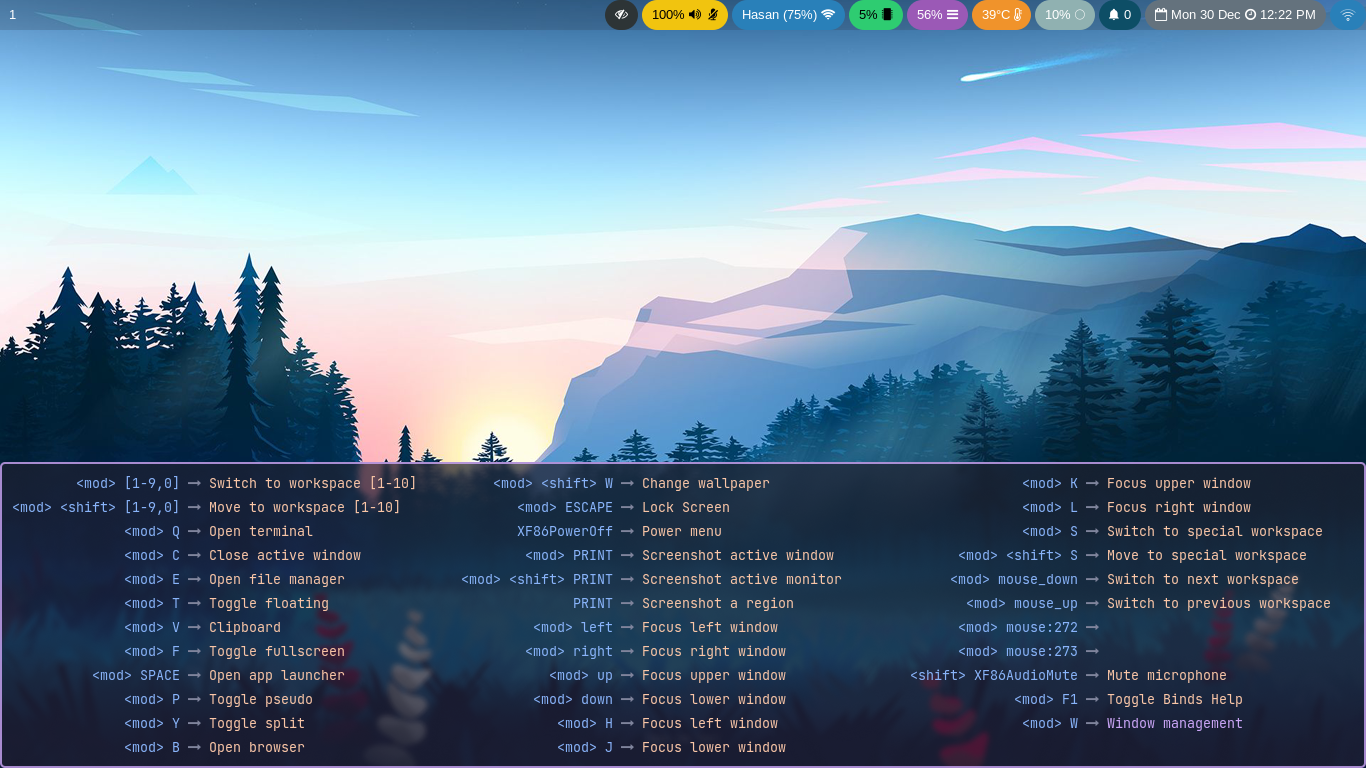
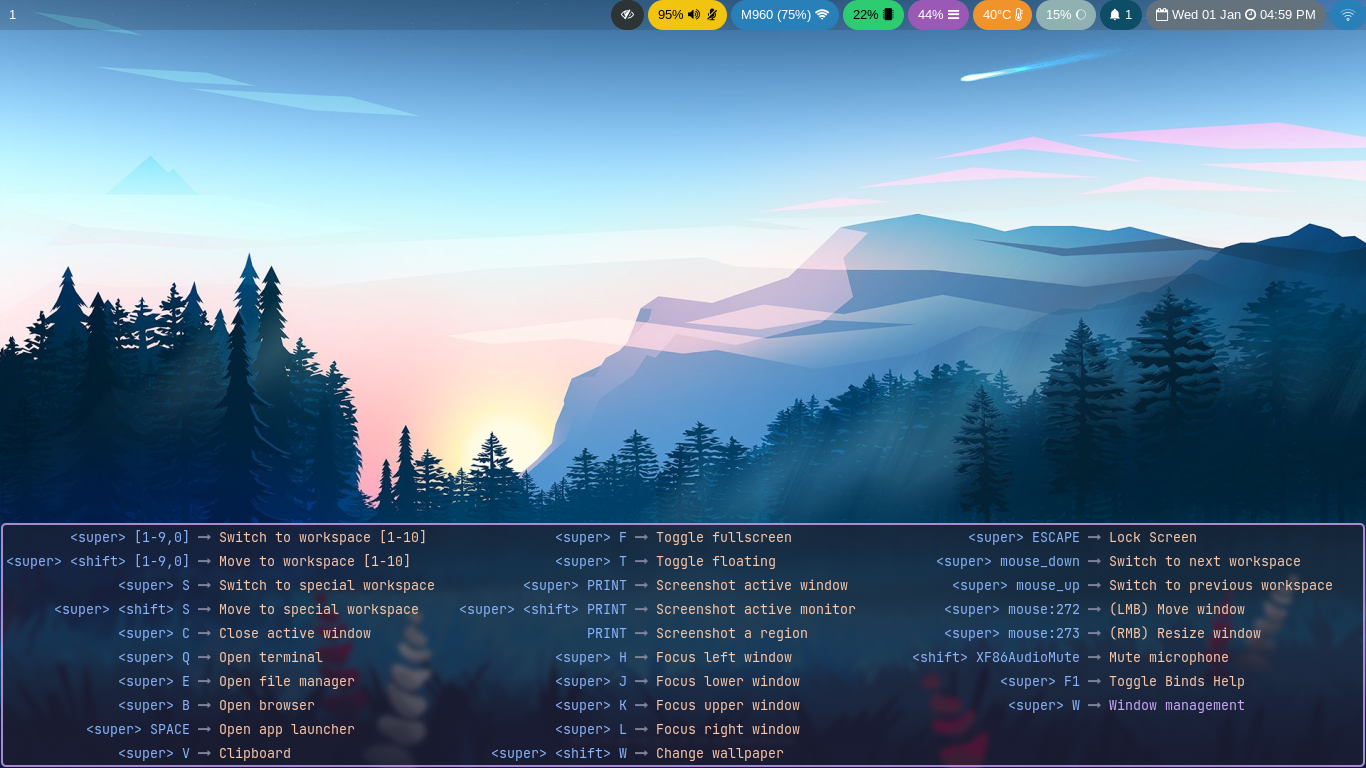
docs: update readme

diff --git a/README.md b/README.md
@@ -67,8 +67,7 @@ Ensure you have the following dependencies installed before proceeding:
 
 ### Usage
 
-- **Toggle Help Menu:** Press `SUPER + F1` to view the binds help menu.
-- **Dynamic Hook Integration:** The `hyprhook` plugin seamlessly detects submap changes and activates the which-key interface.
+Keybinds won't appear unless you add the [description flag](https://wiki.hyprland.org/Configuring/Binds/#description) using `bindd`. However, you can leave the description empty while setting the flag, and it will automatically fall back to displaying the dispatcher instead.
 
 ---
 
